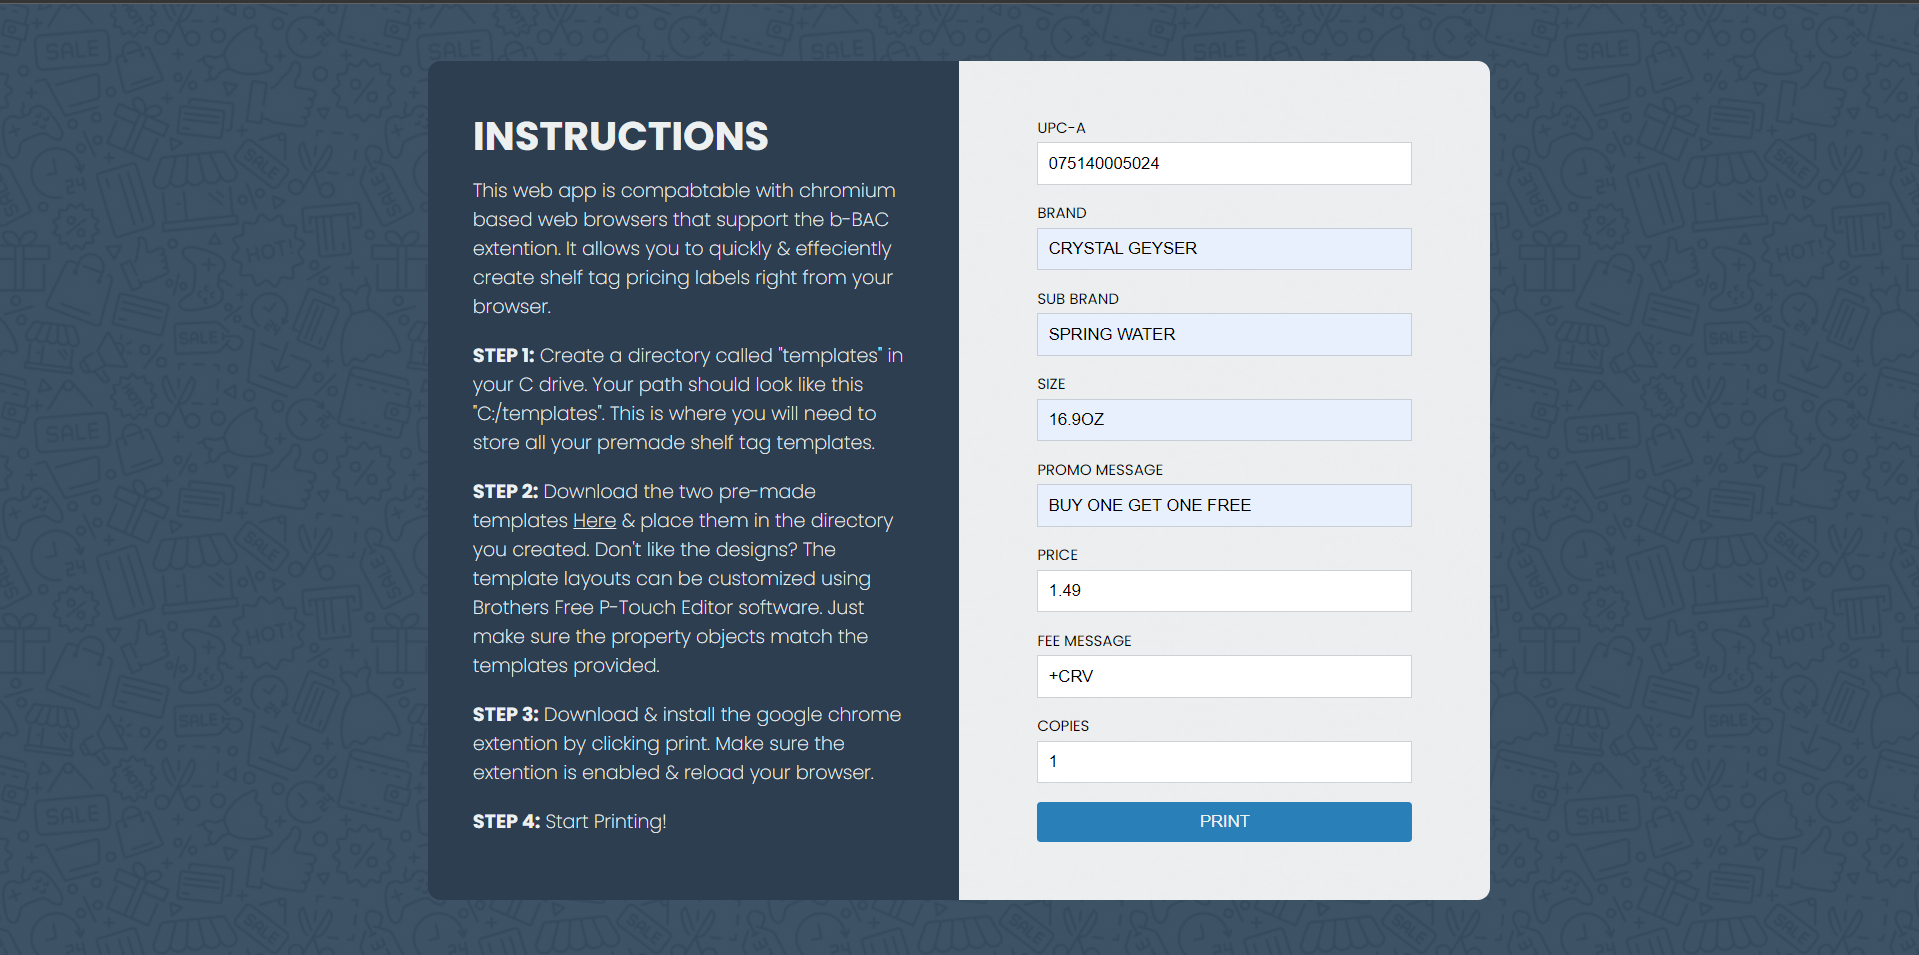
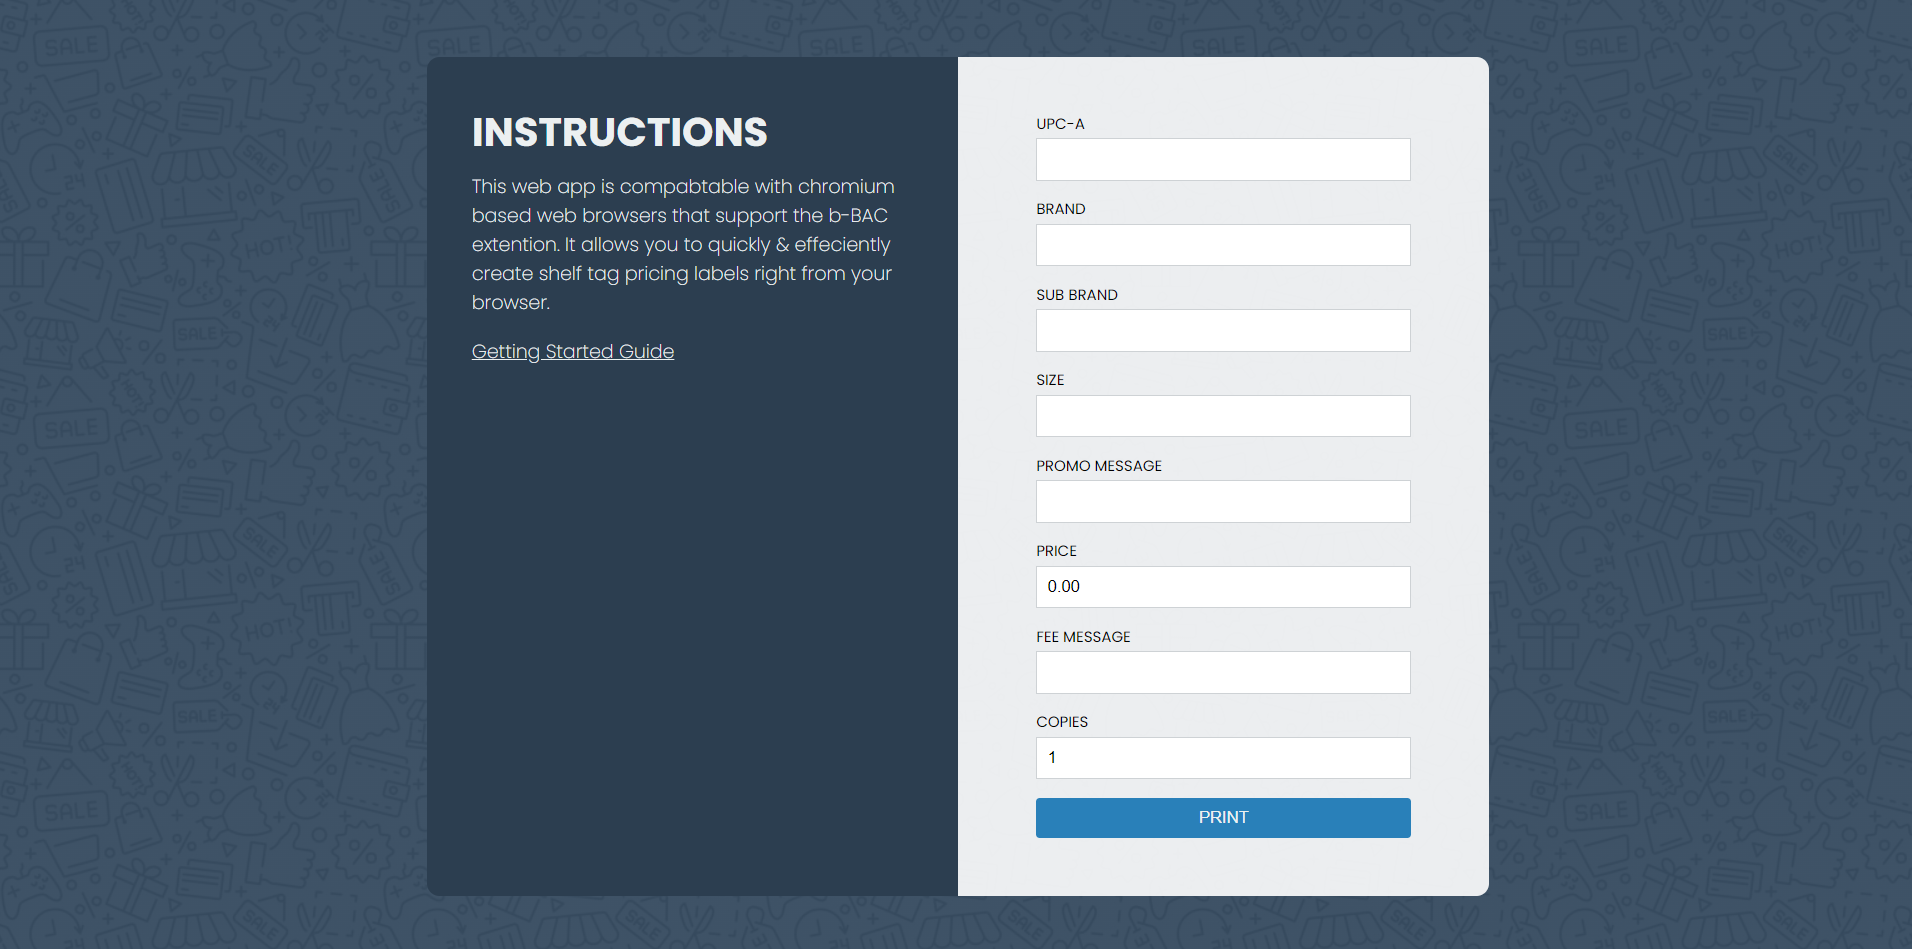
doc update

diff --git a/src/index.html b/src/index.html
@@ -7,7 +7,7 @@
   <meta http-equiv="Content-Type" content="text/html; charset=utf-8" />
   <meta name="viewport" content="width=device-width, initial-scale=1.0" />
   <link rel="stylesheet" href="./assets/css/styles.css" />
-  <title>Turbo Tags</title>
+  <title>Shelf Tags</title>
 </head>
 
 <body>
@@ -28,25 +28,9 @@
         shelf tag pricing labels right from your browser.
       </p>
       <p>
-        <strong>STEP 1:</strong> Create a directory called "templates" in your C drive.
-        Your path should look like this "C:/templates". This is where you will need to store
-        all your premade shelf tag templates.
-      </p>
-      <p>
-        <strong>STEP 2:</strong> Download the two pre-made templates 
-        <a rel="noopener" href="https://www.github.com/yeasir01/shelf-tags/blob/main/templates.zip?raw=true">Here</a> & 
-        place them in the directory you created. 
-        
-        Don't like the designs? The template layouts can be customized using 
-        Brothers Free P-Touch Editor software. Just make sure the property objects 
-        match the templates provided.
-      </p>
-      <p>
-        <strong>STEP 3:</strong> Download & install the google chrome extention by clicking 
-        print. Make sure the extention is enabled & reload your browser.
-      </p>
-      <p>
-        <strong>STEP 4:</strong> Start Printing!
+        <a href="https://github.com/yeasir01/shelf-tags" target="_blank" rel="noopener noreferrer">
+          Getting Started Guide
+        </a>
       </p>
       <!-- <button id="open">Settings</button> -->
     </div>

diff --git a/src/assets/js/script.js b/src/assets/js/script.js
@@ -35,7 +35,7 @@ async function handlePrint(e) {
             throw new Error('Invalid template path. Check your settings and try again.');
         }
         
-        await BPAC.SetPrinter(config.printer);
+        //await BPAC.SetPrinter(config.printer);
 
         if (isPromo) {
             const promoObj = await BPAC.GetObject("objPromo");

diff --git a/README.md b/README.md
@@ -1,9 +1,31 @@
+# Shelf Tag Web App
 [![Netlify Status](https://api.netlify.com/api/v1/badges/3bd1e3a7-ccfc-45eb-86d3-451c7470e4b3/deploy-status)](https://app.netlify.com/sites/shelf-tag/deploys)
 
-# Shelf Tag Web App
-An app for creating shelf tag pricing labels from your web browser.
+An easy to use app for quickly generating shelf tag pricing labels from your web browser.
 
+### Is Your Printer Supported?
+- [Check Supported Models](https://www.brother.co.jp/eng/dev/bpac/environment/index.aspx#model)
+
+### Required Dependencies
+- [b-PAC Client Component](https://support.brother.com/g/b/agreement.aspx?dlid=dlfp100924_000)
+- [Brother b-PAC Extention for Chrome](https://chrome.google.com/webstore/detail/brother-b-pac-extension/ilpghlfadkjifilabejhhijpfphfcfhb)
+- [Shelf Tag Templates](https://www.github.com/yeasir01/shelf-tags/blob/main/templates.zip?raw=true)
+
+### Setup & Configuration
+
+- Download & install the driver for your specific printer.
+
+- Install the b-PAC client component & p-PAC web browser extension.
+
+- Create a directory called "templates" in your C drive. Your path should look something like this ```C:/templates```. This is where you will need to store all your prebuild shelf tag templates.
+
+- Download the two pre-made templates Here & place them in the directory you created. Don't like the designs? The template layouts can be customized using Brothers Free P-Touch Editor software. Just make sure the property objects match the templates provided.
+
+- Happy Printing!
+
+
+### Web Interface
 ![ScreenShot](./.github/assets/app.png)
 
-Tags Printed Using A Brother QL-820NW
+### Tags printed with a Brother QL-820NWB thermal printer.
 ![ScreenShot](./.github/assets/tags.png)
